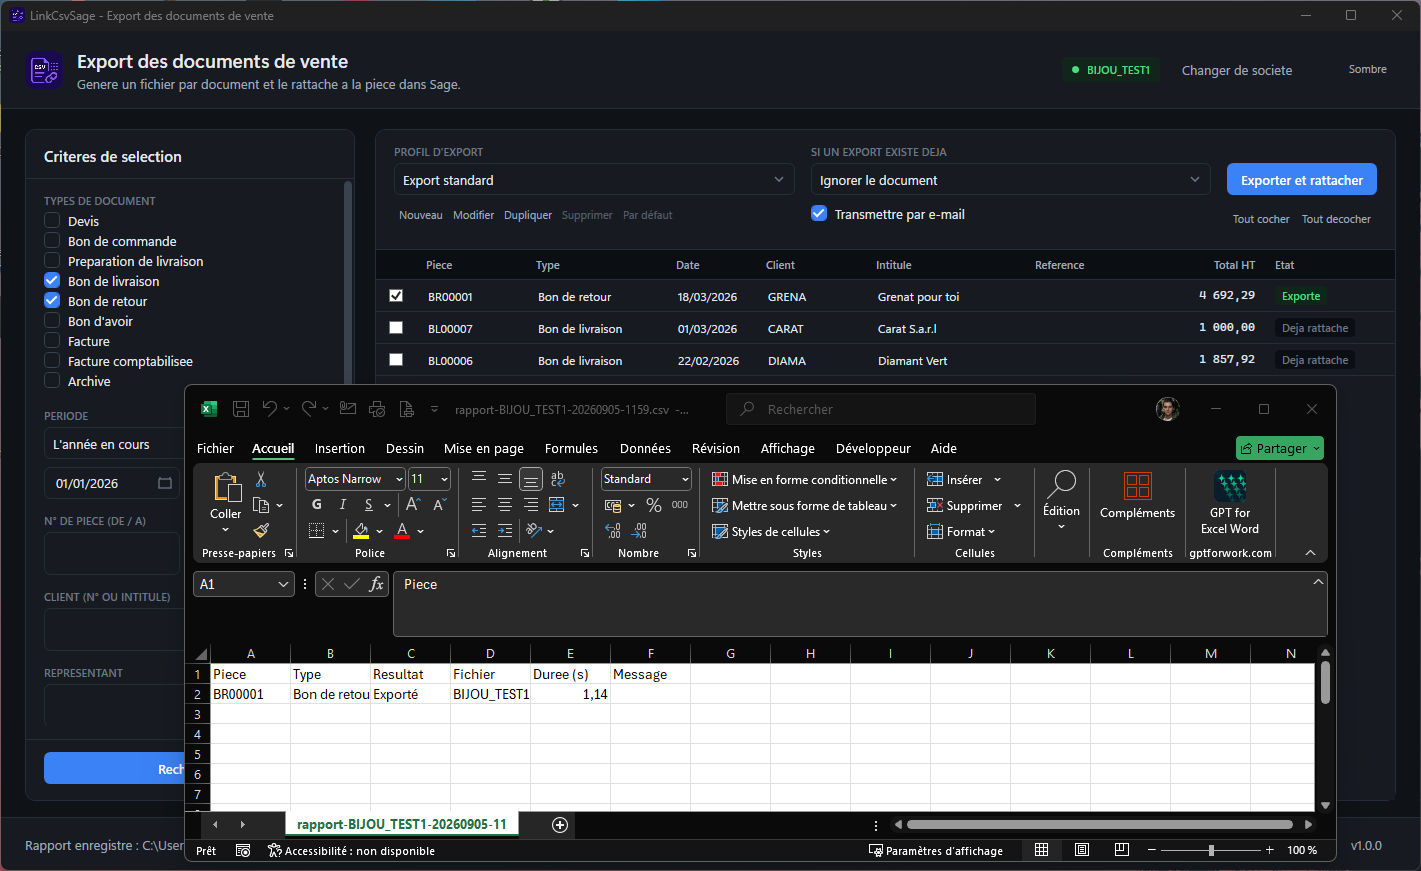
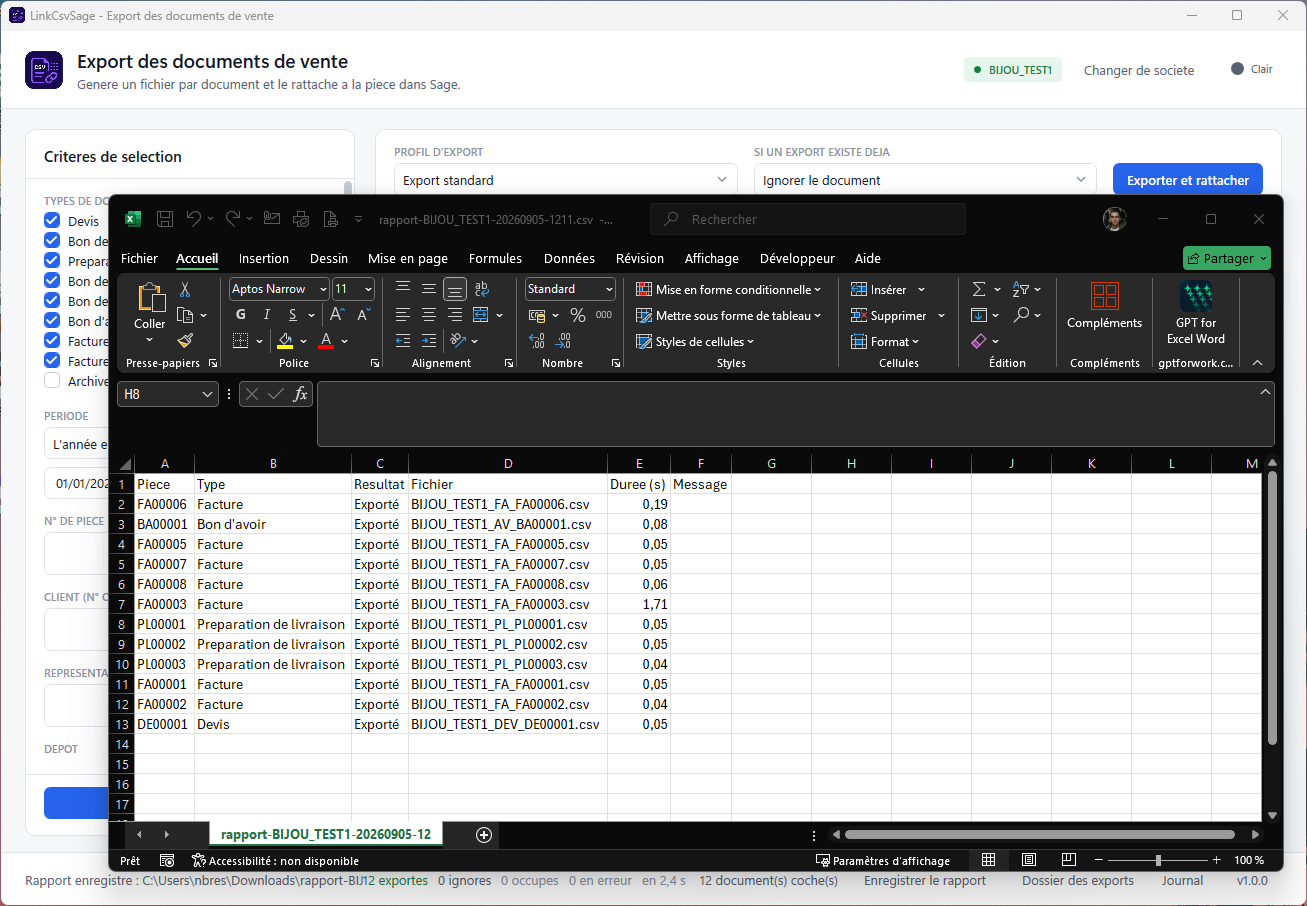
contenu(produits): capture du profil d'export de LinkCsvSage et nouveau rapport d'export

diff --git a/src/content/produits/linkcsvsage.md b/src/content/produits/linkcsvsage.md
@@ -11,12 +11,15 @@ captures:
   - fichier: connexion-multisocietes.png
     titre: Connexion à la société
     alt: Écran de connexion de LinkCsvSage, choix de la société Sage parmi celles déclarées, avec société par défaut, puis saisie du mot de passe.
+  - fichier: configurateur-export.png
+    titre: Profil d'export
+    alt: Éditeur d'un profil d'export, choix et ordre des colonnes parmi les champs d'en-tête et de ligne du document, format CSV, séparateur, décimales, format de date, encodage, ligne d'en-tête, et aperçu du fichier produit.
   - fichier: export-et-rattachement.png
     titre: Sélection et export des documents
     alt: Sélection des documents de vente par type, période, numéro de pièce, client, représentant et dépôt, profil d'export, règle si un export existe déjà, transmission par e-mail, liste des pièces avec état exporté ou déjà rattaché, et bouton Exporter et rattacher.
   - fichier: rapport-export.png
     titre: Rapport d'export
-    alt: Rapport d'export enregistré au format CSV et ouvert dans Excel, une ligne par pièce avec type, résultat, fichier, durée et message, devant l'application en thème sombre.
+    alt: Rapport d'export enregistré au format CSV et ouvert dans Excel, une ligne par pièce exportée avec son type, le résultat, le nom du fichier CSV produit et la durée.
 fonctionnalites:
   - "Export CSV automatisé des documents de Gestion commerciale"
   - "Rattachement du fichier CSV au document Sage"
